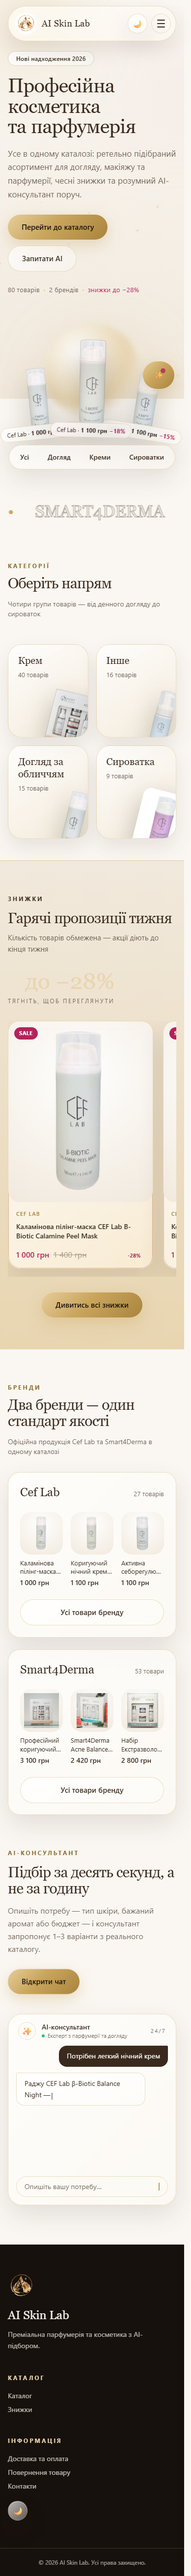
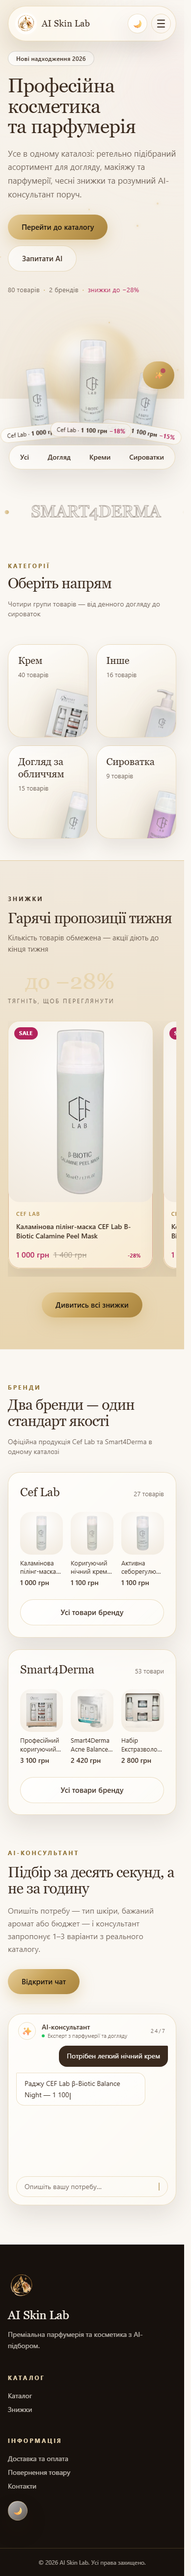
feat: background-free photos for all catalog products
- generate rembg cutouts for every product (79/80, id 508 has no
  photo) via backend/scripts/make_cutouts.py: trimmed, <=900px WebP,
  filename-safe ids (product "700\703\706\708\711" got sanitized name)
- shared lib/cutouts.ts helper (cutoutName/cutoutSrc) used by home
  page, product detail, cards, brands and chat
- ProductCard/BrandsSection/ChatBubble now load /cutouts/<id>.webp
  first and fall back to the original photo, then placeholder
- category tiles and hero pick cutouts for all four categories
  (Сироватка tile no longer shows a rectangular photo)
- refresh shots/ (errors: 0)

diff --git a/frontend/src/components/ProductCard.tsx b/frontend/src/components/ProductCard.tsx
@@ -4,6 +4,7 @@ import { motion } from "framer-motion";
 import { useLocale, useTranslations } from "@/i18n/request";
 import { Link } from "@/i18n/navigation";
 import { formatPrice } from "@/lib/format";
+import { cutoutSrc } from "@/lib/cutouts";
 import { localizedField, type Product } from "@/lib/types";
 
 interface Props {
@@ -53,12 +54,18 @@ export default function ProductCard({ product, index = 0 }: Props) {
         <div className="pic relative aspect-[4/5] overflow-hidden">
           {/* eslint-disable-next-line @next/next/no-img-element */}
           <img
-            src={product.image}
+            src={cutoutSrc(product.id)}
             alt={name}
             loading="lazy"
             className="absolute inset-0 h-full w-full object-contain p-4 transition-transform duration-500 group-hover:scale-105"
             onError={(e) => {
-              (e.currentTarget as HTMLImageElement).src = "/images/placeholder.svg";
+              const el = e.currentTarget as HTMLImageElement;
+              if (el.dataset.fallback !== "original") {
+                el.dataset.fallback = "original";
+                el.src = product.image;
+              } else {
+                el.src = "/images/placeholder.svg";
+              }
             }}
           />
           <div className="absolute inset-x-0 bottom-0 translate-y-full bg-gradient-to-t from-black/70 to-transparent px-4 py-3 text-center text-xs font-medium text-white transition-transform duration-300 group-hover:translate-y-0">

diff --git a/frontend/src/components/chat/ChatBubble.tsx b/frontend/src/components/chat/ChatBubble.tsx
@@ -4,6 +4,7 @@ import { useEffect, useRef, useState } from "react";
 import { motion, AnimatePresence } from "framer-motion";
 import { Link } from "@/i18n/navigation";
 import { useTranslations } from "@/i18n/request";
+import { cutoutSrc } from "@/lib/cutouts";
 
 export interface ChatProduct {
   id: string;
@@ -75,11 +76,17 @@ export default function ChatBubble({ content, isTyping, onFinish, products }: Pr
                 <div className="h-12 w-12 shrink-0 overflow-hidden rounded-lg bg-[var(--pic)]">
                   {/* eslint-disable-next-line @next/next/no-img-element */}
                   <img
-                    src={p.image}
+                    src={cutoutSrc(p.id)}
                     alt={p.name}
-                    className="h-full w-full object-cover"
+                    className="h-full w-full object-contain"
                     onError={(e) => {
-                      (e.currentTarget as HTMLImageElement).src = "/images/placeholder.svg";
+                      const el = e.currentTarget as HTMLImageElement;
+                      if (el.dataset.fallback !== "original") {
+                        el.dataset.fallback = "original";
+                        el.src = p.image;
+                      } else {
+                        el.src = "/images/placeholder.svg";
+                      }
                     }}
                   />
                 </div>

diff --git a/frontend/src/components/BrandsSection.tsx b/frontend/src/components/BrandsSection.tsx
@@ -5,6 +5,7 @@ import Link from "next/link";
 import { motion } from "framer-motion";
 import { useTranslations } from "@/i18n/request";
 import { formatPrice, pluralUk } from "@/lib/format";
+import { cutoutSrc } from "@/lib/cutouts";
 import { localizedField, type Product } from "@/lib/types";
 
 export type BrandGroup = { name: string; products: Product[]; total: number };
@@ -98,12 +99,18 @@ function BrandProduct({ product }: { product: Product }) {
       <div className="pic relative aspect-square overflow-hidden [&_img]:p-2">
         {/* eslint-disable-next-line @next/next/no-img-element */}
         <img
-          src={product.image}
+          src={cutoutSrc(product.id)}
           alt={name}
           loading="lazy"
           className="absolute inset-0 h-full w-full object-contain transition-transform duration-500 group-hover:scale-105"
           onError={(e) => {
-            (e.currentTarget as HTMLImageElement).src = "/images/placeholder.svg";
+            const el = e.currentTarget as HTMLImageElement;
+            if (el.dataset.fallback !== "original") {
+              el.dataset.fallback = "original";
+              el.src = product.image;
+            } else {
+              el.src = "/images/placeholder.svg";
+            }
           }}
         />
       </div>

diff --git a/frontend/src/app/page.tsx b/frontend/src/app/page.tsx
@@ -1,6 +1,7 @@
 import fs from "node:fs";
 import path from "node:path";
 import { getCatalog, getSaleProducts } from "@/lib/api";
+import { cutoutName, cutoutSrc } from "@/lib/cutouts";
 import { Hero } from "@/components/Hero";
 import type { HeroItem } from "@/components/HeroProducts";
 import type { CategoryTileData } from "@/components/CategoriesSection";
@@ -15,8 +16,8 @@ export const dynamic = "force-dynamic";
 
 function cutoutFor(id: string): string | null {
   try {
-    const file = path.join(process.cwd(), "public", "cutouts", `${id}.webp`);
-    return fs.existsSync(file) ? `/cutouts/${id}.webp` : null;
+    const file = path.join(process.cwd(), "public", "cutouts", `${cutoutName(id)}.webp`);
+    return fs.existsSync(file) ? cutoutSrc(id) : null;
   } catch {
     return null;
   }

diff --git a/frontend/src/components/product/ProductDetailView.tsx b/frontend/src/components/product/ProductDetailView.tsx
@@ -5,16 +5,13 @@ import { motion } from "framer-motion";
 import { useLocale, useTranslations } from "@/i18n/request";
 import { Link } from "@/i18n/navigation";
 import { formatPrice } from "@/lib/format";
+import { cutoutSrc } from "@/lib/cutouts";
 import { localizedField, type Product as ProductType } from "@/lib/types";
 import ProductCard from "@/components/ProductCard";
 
 interface Props {
   product: ProductType;
   related: ProductType[];
-}
-
-function cutoutSrc(id: string): string {
-  return `/cutouts/${id}.webp`;
 }
 
 export default function ProductDetailView({ product, related }: Props) {

diff --git a/frontend/src/lib/cutouts.ts b/frontend/src/lib/cutouts.ts
@@ -1,0 +1,9 @@
+const BAD_ID_CHARS = /[\\/:*?"<>|]/g;
+
+export function cutoutName(id: string): string {
+  return id.replace(BAD_ID_CHARS, "_");
+}
+
+export function cutoutSrc(id: string): string {
+  return `/cutouts/${encodeURIComponent(cutoutName(id))}.webp`;
+}

diff --git a/backend/scripts/make_cutouts.py b/backend/scripts/make_cutouts.py
@@ -1,0 +1,81 @@
+"""Generate transparent-background WebP cutouts for every catalog product.
+
+Reads the live catalog from the backend, runs rembg (u2net) over each
+source image and writes frontend/public/cutouts/<id>.webp (trimmed,
+max 900px, quality 86). Existing cutouts are skipped, so the script is
+safe to re-run / resume.
+
+Usage:  python backend/scripts/make_cutouts.py [--limit N]
+"""
+from __future__ import annotations
+
+import io
+import json
+import sys
+import urllib.request
+from pathlib import Path
+
+from PIL import Image
+from rembg import new_session, remove
+
+ROOT = Path(__file__).resolve().parents[2]
+IMAGES = ROOT / "data" / "images"
+OUT = ROOT / "frontend" / "public" / "cutouts"
+API = "http://localhost:8000/api/catalog"
+MAX_SIDE = 900
+
+# ids may contain characters that are illegal in file names (e.g. "700\703...")
+BAD_ID_CHARS = set('\\/:*?"<>|')
+
+
+def cutout_name(pid: str) -> str:
+    return "".join("_" if c in BAD_ID_CHARS else c for c in pid)
+
+
+def main() -> None:
+    limit = 0
+    if "--limit" in sys.argv:
+        limit = int(sys.argv[sys.argv.index("--limit") + 1])
+
+    OUT.mkdir(parents=True, exist_ok=True)
+    catalog = json.loads(urllib.request.urlopen(API, timeout=15).read().decode())
+    items = catalog["items"]
+
+    session = new_session("u2net")
+    done = skipped = failed = 0
+    for n, p in enumerate(items, 1):
+        pid = p["id"]
+        out_path = OUT / f"{cutout_name(pid)}.webp"
+        if out_path.exists():
+            skipped += 1
+            continue
+        if limit and done >= limit:
+            break
+        src = IMAGES / Path(p["image"].replace("\\", "/")).name
+        if not src.exists() or src.suffix.lower() == ".svg":
+            print(f"[{n}/{len(items)}] {pid}: no usable source ({src.name})")
+            failed += 1
+            continue
+        try:
+            with Image.open(src) as im:
+                im = im.convert("RGBA")
+                cut = remove(im, session=session)
+            bbox = cut.split()[3].point(lambda a: 255 if a > 8 else 0).getbbox()
+            if bbox:
+                cut = cut.crop(bbox)
+            w, h = cut.size
+            scale = MAX_SIDE / max(w, h)
+            if scale < 1:
+                cut = cut.resize((round(w * scale), round(h * scale)), Image.LANCZOS)
+            cut.save(out_path, "WEBP", quality=86, method=6)
+            done += 1
+            print(f"[{n}/{len(items)}] {pid}: ok {cut.size[0]}x{cut.size[1]}")
+        except Exception as exc:  # noqa: BLE001
+            failed += 1
+            print(f"[{n}/{len(items)}] {pid}: FAILED {exc}")
+
+    print(f"done={done} skipped_existing={skipped} failed={failed}")
+
+
+if __name__ == "__main__":
+    main()
